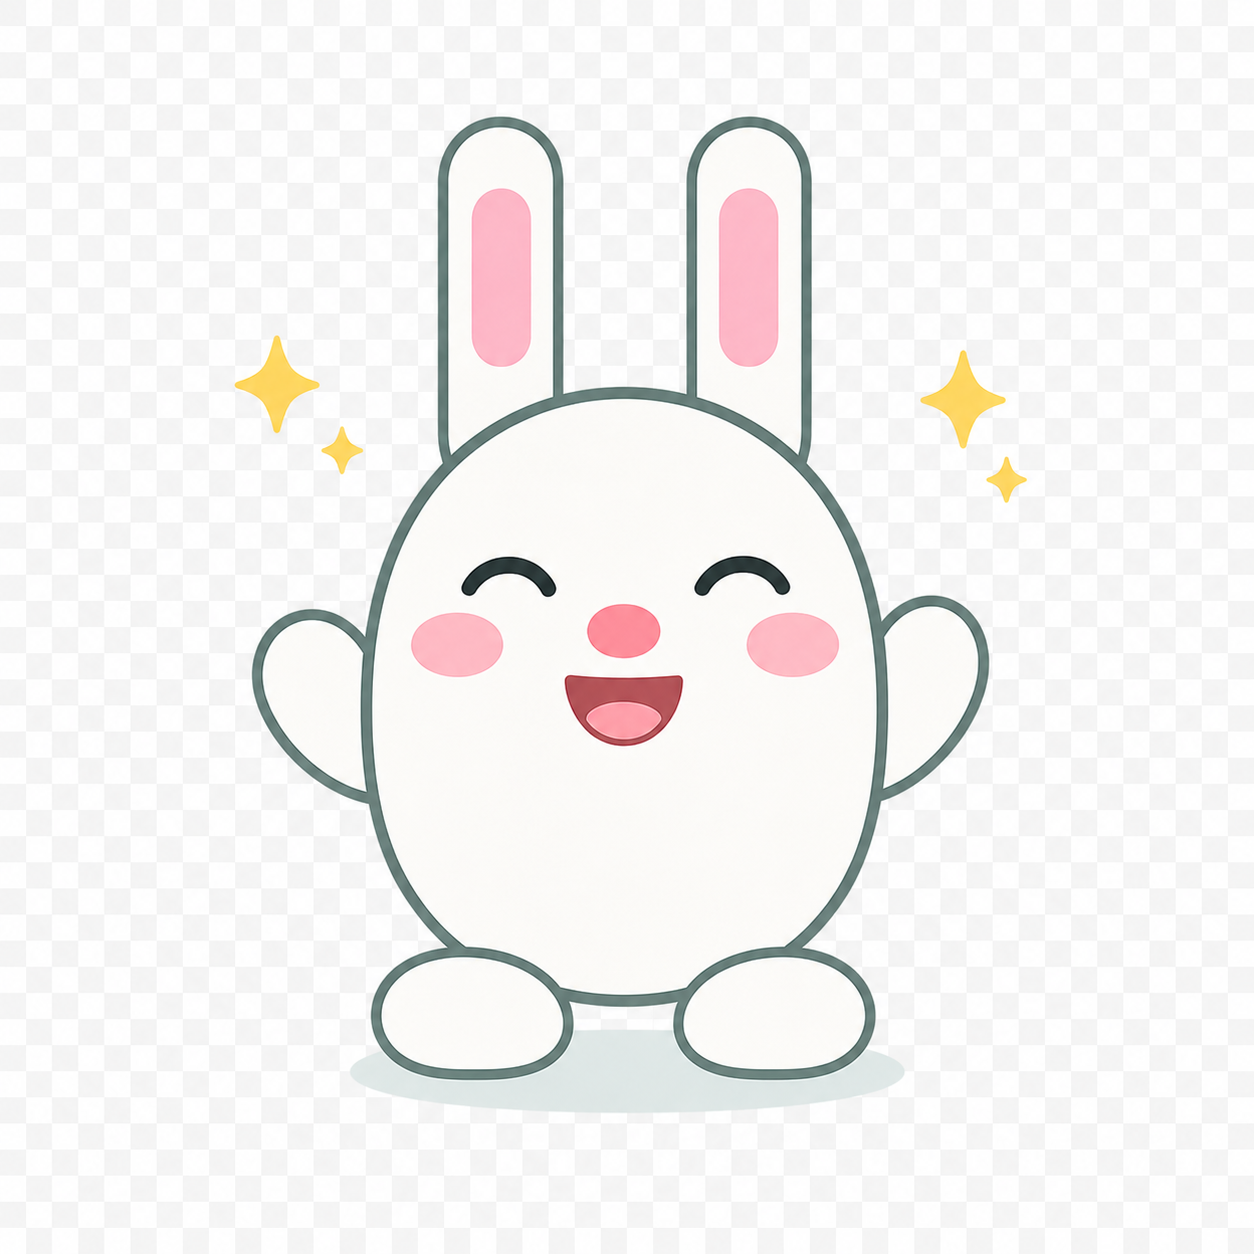
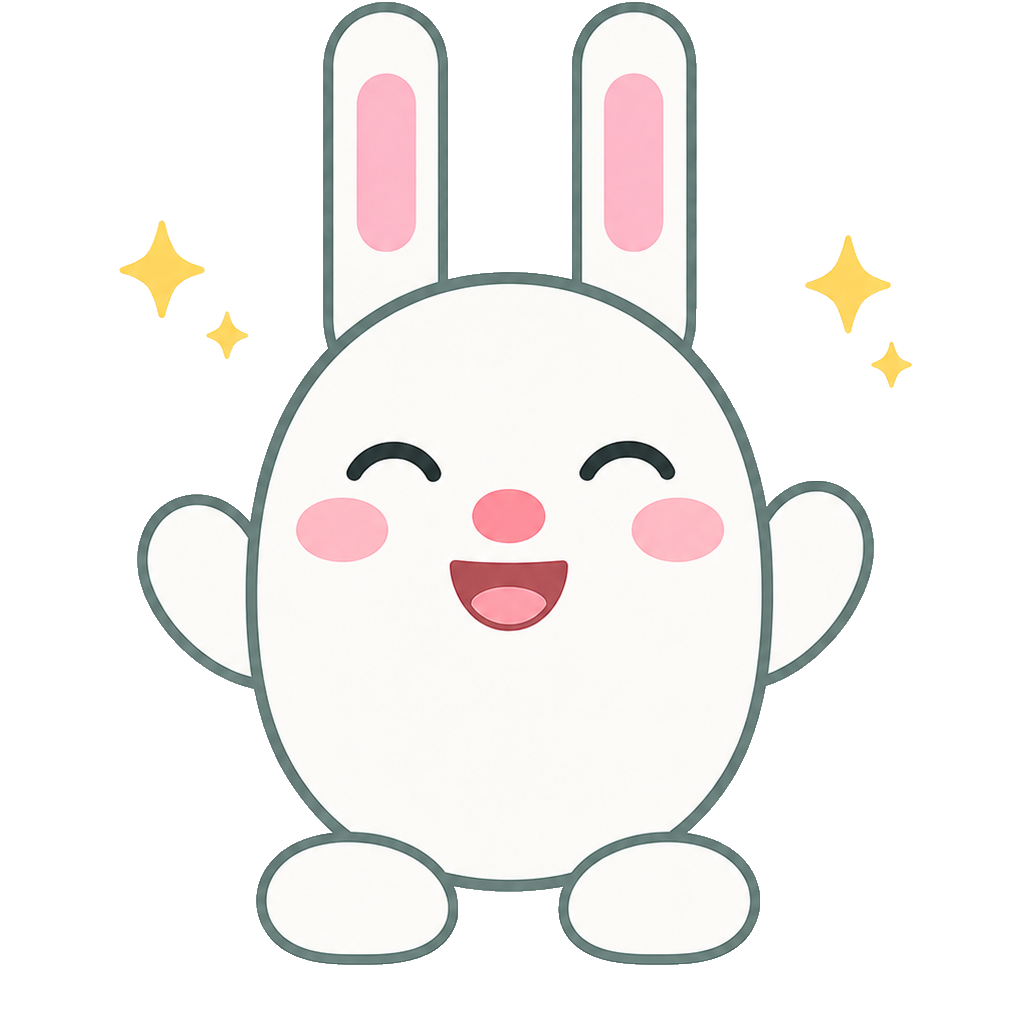
Add patient welcome onboarding with Respira Bunny

diff --git a/src/modules/onboarding/components/RespiraWelcomeOnboarding.tsx b/src/modules/onboarding/components/RespiraWelcomeOnboarding.tsx
@@ -1,11 +1,12 @@
 /**
  * Purpose: First-time welcome modal with RESPIRA+ bunny guide (controlled by parent).
  * Module: onboarding
- * Dependencies: RespiraBunnyImage, wellness tokens, AppButton
+ * Dependencies: RespiraBunnyImage, WelcomeBunnyBackdrop, wellness tokens, AppButton
  */
 
 import { Modal, Pressable, StyleSheet, Text, View, useWindowDimensions } from 'react-native';
 
+import { WelcomeBunnyBackdrop } from '@/src/modules/onboarding/components/WelcomeBunnyBackdrop';
 import { AppButton } from '@/src/shared/ui/AppButton';
 import { RespiraBunnyImage } from '@/src/shared/ui/RespiraBunnyImage';
 import { spacing } from '@/src/shared/theme/spacing';
@@ -16,7 +17,7 @@ import {
   wellnessTypography,
 } from '@/src/shared/theme/wellness-theme';
 
-const BUNNY_SIZE = 132;
+const BUNNY_SIZE = 152;
 const CARD_MAX_WIDTH = 400;
 
 export type RespiraWelcomeOnboardingProps = {
@@ -47,20 +48,20 @@ export function RespiraWelcomeOnboarding({ visible, onContinue }: RespiraWelcome
           style={[styles.card, { width: cardWidth }, wellnessShadows.elevated]}
           accessibilityRole="summary"
           accessibilityLabel="Bienvenida a RESPIRA+">
-          <View style={styles.bunnyWrap}>
-            <RespiraBunnyImage pose="wave" size={BUNNY_SIZE} />
+          <View style={styles.heroStage}>
+            <View style={styles.heroBackdrop} pointerEvents="none">
+              <WelcomeBunnyBackdrop width={cardWidth} />
+            </View>
+            <View style={styles.bunnyForeground} pointerEvents="none">
+              <RespiraBunnyImage pose="happy" size={BUNNY_SIZE} />
+            </View>
           </View>
 
-          <Text style={styles.title}>Bienvenido a RESPIRA+</Text>
-          <Text style={styles.subtitle}>
-            Te acompañaré paso a paso en tus sesiones respiratorias.
-          </Text>
-          <Text style={styles.message}>
-            RESPIRA+ te ayuda a practicar, medir tu progreso y mantener constancia durante tu
-            terapia.
-          </Text>
-
-          <AppButton title="Comenzar" onPress={onContinue} variant="primary" style={styles.cta} />
+          <View style={styles.copyBlock}>
+            <Text style={styles.title}>Bienvenido a RESPIRA+</Text>
+            <Text style={styles.message}>Te acompañaré en tus sesiones respiratorias.</Text>
+            <AppButton title="Comenzar" onPress={onContinue} variant="primary" style={styles.cta} />
+          </View>
         </View>
       </View>
     </Modal>
@@ -80,38 +81,49 @@ const styles = StyleSheet.create({
     borderRadius: wellnessRadii.cardLarge,
     borderWidth: 1,
     borderColor: wellnessColors.border,
-    paddingHorizontal: spacing.lg,
-    paddingTop: spacing.md,
-    paddingBottom: spacing.lg,
-    alignItems: 'center',
+    overflow: 'hidden',
     maxWidth: '100%',
   },
-  bunnyWrap: {
-    marginBottom: spacing.sm,
+  heroStage: {
+    width: '100%',
+    minHeight: 200,
     alignItems: 'center',
+    justifyContent: 'flex-end',
+    paddingBottom: spacing.sm,
+  },
+  heroBackdrop: {
+    ...StyleSheet.absoluteFillObject,
+    bottom: undefined,
+    height: '100%',
+  },
+  bunnyForeground: {
+    zIndex: 1,
+    alignItems: 'center',
+    marginBottom: spacing.xs,
+  },
+  copyBlock: {
+    paddingHorizontal: spacing.lg,
+    paddingBottom: spacing.xl,
+    paddingTop: spacing.md,
+    alignItems: 'center',
+    width: '100%',
   },
   title: {
     ...wellnessTypography.screenTitle,
     fontSize: 24,
     color: wellnessColors.textPrimary,
     textAlign: 'center',
-    marginBottom: spacing.sm,
-  },
-  subtitle: {
-    ...wellnessTypography.body,
-    color: wellnessColors.primaryDark,
-    textAlign: 'center',
-    fontWeight: '600',
-    marginBottom: spacing.md,
+    marginBottom: spacing.xs,
   },
   message: {
     ...wellnessTypography.body,
     color: wellnessColors.textSecondary,
     textAlign: 'center',
-    marginBottom: spacing.lg,
+    marginBottom: spacing.xl,
   },
   cta: {
     alignSelf: 'stretch',
     width: '100%',
+    minHeight: 54,
   },
 });

diff --git a/src/modules/home/screens/HomeScreen.tsx b/src/modules/home/screens/HomeScreen.tsx
@@ -33,6 +33,11 @@ import { useCalibrationSnapshot } from '@/src/modules/device/state/use-calibrati
 import { getCurrentActiveLevel, hasDiagnostic, getLatestDiagnostic } from '@/src/modules/diagnostics/diagnostic-service';
 import type { DiagnosticRecord } from '@/src/modules/diagnostics/types';
 import { HomeLastSessionCard } from '@/src/modules/home/components/HomeLastSessionCard';
+import { RespiraWelcomeOnboarding } from '@/src/modules/onboarding/components/RespiraWelcomeOnboarding';
+import {
+  hasSeenWelcomeOnboarding,
+  markWelcomeOnboardingSeen,
+} from '@/src/modules/onboarding/storage/onboarding-storage';
 import { LEGAL_ACCEPT_HREF } from '@/src/modules/legal/legal-hrefs';
 import { useConsentActive } from '@/src/modules/legal/use-consent-active';
 import { useLevelsProgress } from '@/src/modules/levels/state/use-levels-progress';
@@ -112,6 +117,8 @@ export function HomeScreen() {
   const [patientSessions, setPatientSessions] = useState<SessionRecord[]>([]);
   const [latestDiag, setLatestDiag] = useState<DiagnosticRecord | null>(null);
   const [startingLevel, setStartingLevel] = useState(false);
+  const [welcomeVisible, setWelcomeVisible] = useState(false);
+  const [welcomeCheckedPatientId, setWelcomeCheckedPatientId] = useState<number | null>(null);
   const bottomPad = dashboardScrollBottomPadding(insets.bottom);
   const { reload: reloadTouchPracticePreference } = useTouchPracticePreference();
 
@@ -164,6 +171,56 @@ export function HomeScreen() {
   useEffect(() => {
     void loadProgress();
   }, [patient?.paciente_id, patient?.clave, loadProgress]);
+
+  useEffect(() => {
+    const patientId = patient?.paciente_id;
+    if (!hydrated || patientId == null || !Number.isFinite(patientId)) {
+      setWelcomeVisible(false);
+      setWelcomeCheckedPatientId(null);
+      return;
+    }
+    if (welcomeCheckedPatientId === patientId) {
+      return;
+    }
+
+    let cancelled = false;
+    setWelcomeVisible(false);
+    void (async () => {
+      try {
+        const seen = await hasSeenWelcomeOnboarding(patientId);
+        if (cancelled) return;
+        setWelcomeCheckedPatientId(patientId);
+        setWelcomeVisible(!seen);
+      } catch (error) {
+        console.warn('[HomeScreen] hasSeenWelcomeOnboarding failed', error);
+        if (!cancelled) {
+          setWelcomeCheckedPatientId(patientId);
+          setWelcomeVisible(false);
+        }
+      }
+    })();
+
+    return () => {
+      cancelled = true;
+    };
+  }, [hydrated, patient?.paciente_id, welcomeCheckedPatientId]);
+
+  const handleWelcomeContinue = useCallback(() => {
+    const patientId = patient?.paciente_id;
+    if (patientId == null || !Number.isFinite(patientId)) {
+      setWelcomeVisible(false);
+      return;
+    }
+    void (async () => {
+      try {
+        await markWelcomeOnboardingSeen(patientId);
+      } catch (error) {
+        console.warn('[HomeScreen] markWelcomeOnboardingSeen failed', error);
+      } finally {
+        setWelcomeVisible(false);
+      }
+    })();
+  }, [patient?.paciente_id]);
 
   const lastSession = useMemo(() => {
     if (patientSessions.length === 0) return null;
@@ -568,6 +625,7 @@ export function HomeScreen() {
           <Text style={styles.claveHint}>Guárdala en un lugar seguro para volver a entrar.</Text>
         </View>
       </ScrollView>
+      <RespiraWelcomeOnboarding visible={welcomeVisible} onContinue={handleWelcomeContinue} />
     </SafeAreaView>
   );
 }
